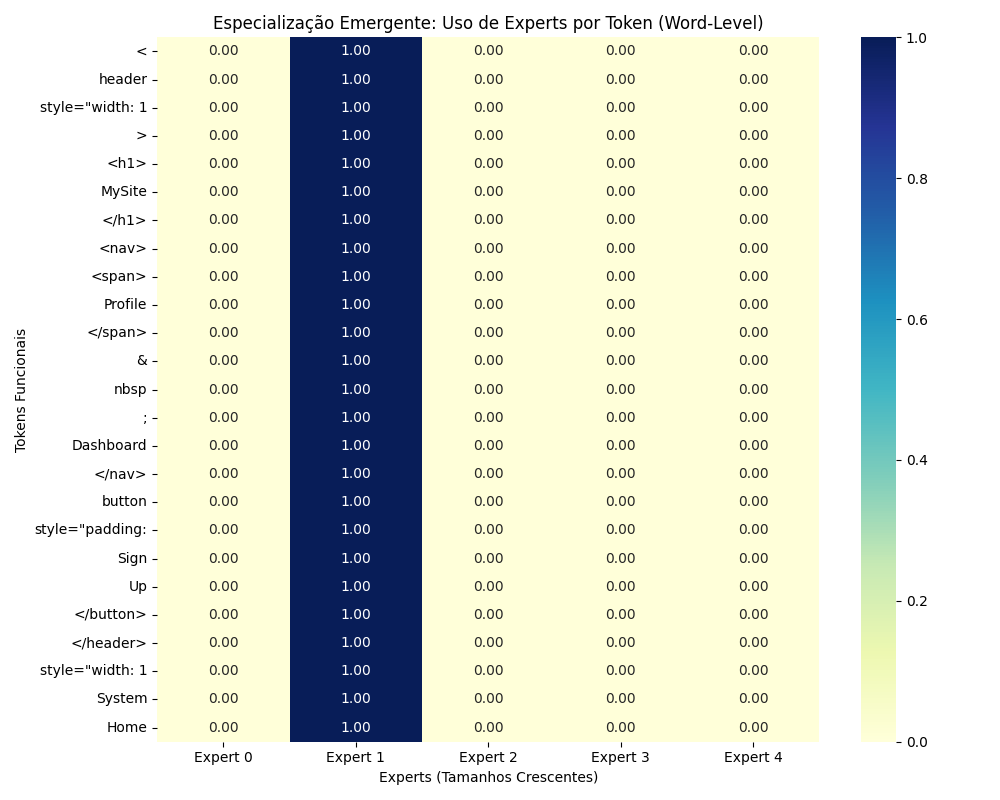
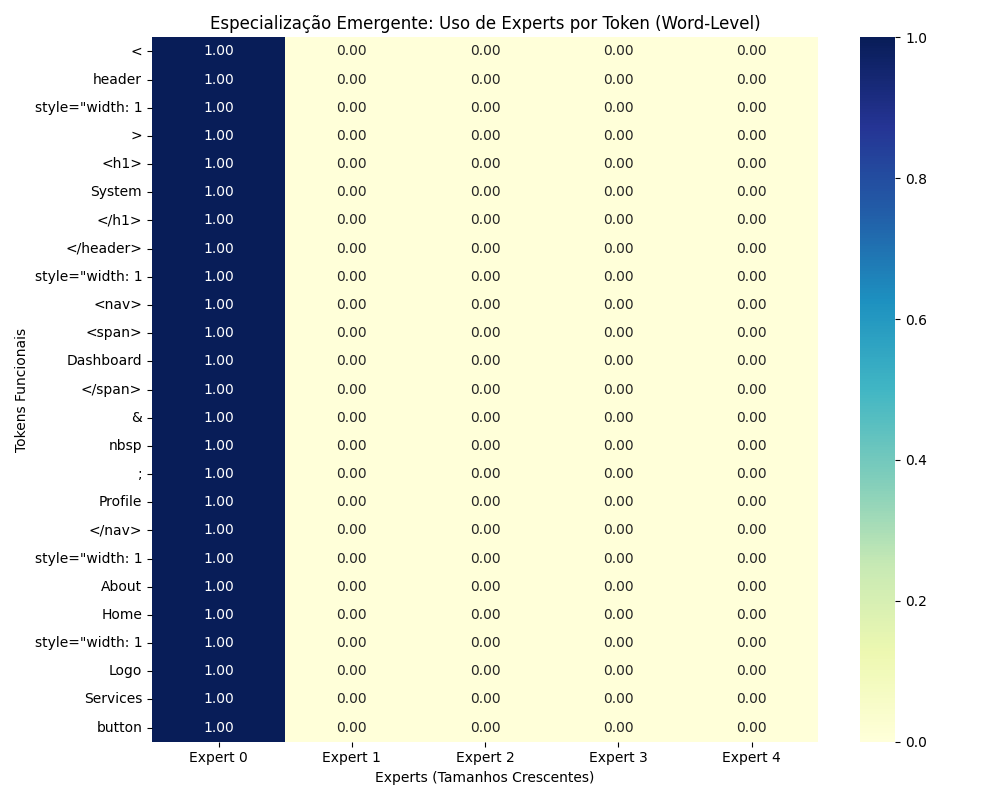
a

diff --git a/experimentos/V8_4_HeaderTrainer.py b/experimentos/V8_4_HeaderTrainer.py
@@ -132,8 +132,8 @@ def main():
     optimizer = optim.Adam(model.parameters(), lr=0.001)
     criterion = nn.CrossEntropyLoss(ignore_index=pad_idx)
     
-    epochs = 3
-    print("\nIniciando Treinamento Rápido (3 Épocas para mapear especialização)...")
+    epochs = 10
+    print("\nIniciando Treinamento Intenso (10 Épocas para decantação estatística)...")
     
     for epoch in range(epochs):
         model.train()
@@ -184,11 +184,47 @@ def main():
     tokens_to_plot = []
     matrix_to_plot = []
     
-    for token, prob_list in list(expert_usage_per_token.items())[:25]: # Pegar top 25 tokens diferentes para o gráfico
+    # Dicionários para contagem estatística sugerida
+    token_categories = {
+        "HTML_ESTRUTURAL": ["<header>", "</header>", "<h1>", "</h1>", "<nav>", "</nav>", "<span>", "</span>", "<button>", "</button>"],
+        "CSS_LAYOUT": ["width:", "box-sizing:", "display:", "justify-content:", "align-items:", "padding:", "margin:"],
+        "CSS_VISUAL": ["background-color:", "color:", "font-family:", "border-radius:", "border:", "cursor:", "font-weight:", "style="],
+        "CONTEUDO_TEXTO": ["Logo", "Brand", "MySite", "App", "Home", "About", "Services", "Contact", "Dashboard", "Login", "Sign", "Enter", "&nbsp;"]
+    }
+    
+    expert_category_dominance = {i: {cat: 0.0 for cat in token_categories.keys()} for i in range(5)}
+    
+    for token, prob_list in list(expert_usage_per_token.items()):
         avg_probs = sum(prob_list) / len(prob_list)
-        tokens_to_plot.append(token[:15]) # Truncar strings longas
-        matrix_to_plot.append(avg_probs)
         
+        # Atribui o token ao expert vencedor
+        winning_expert = int(torch.tensor(avg_probs).argmax().item())
+        
+        # Mapear para categoria
+        for cat, kw_list in token_categories.items():
+            if any(kw in token for kw in kw_list):
+                expert_category_dominance[winning_expert][cat] += 1
+                break
+                
+        if len(tokens_to_plot) < 25:
+            tokens_to_plot.append(token[:15])
+            matrix_to_plot.append(avg_probs)
+            
+    print("\n" + "="*50)
+    print("RELATÓRIO ESTATÍSTICO DE ESPECIALIZAÇÃO FUNCIONAL")
+    print("="*50)
+    for expert_id, cats in expert_category_dominance.items():
+        total_tokens_won = sum(cats.values())
+        if total_tokens_won > 0:
+            print(f"\n[Expert {expert_id}] Dominou {total_tokens_won} tokens únicos:")
+            for cat, count in cats.items():
+                if count > 0:
+                    pct = (count / total_tokens_won) * 100
+                    print(f"  -> {pct:.1f}% pertencem à categoria: {cat}")
+        else:
+            print(f"\n[Expert {expert_id}] Não dominou estatisticamente nenhuma categoria principal (Possível Colapso ou Memória Passiva).")
+    print("="*50)
+    
     import numpy as np
     matrix_to_plot = np.array(matrix_to_plot)
     
@@ -205,7 +241,6 @@ def main():
     plt.close()
     
     print("\n[Artefato Crítico Gerado] Heatmap salvo em: graficos/expert_heatmap_v8.png")
-    print("A hipótese da separação funcional estrutural vs semântica já pode ser visualizada!")
 
 if __name__ == "__main__":
     main()

diff --git a/headerTraining.md b/headerTraining.md
@@ -1,0 +1,40 @@
+# Relatório de Treinamento: V8 Image-to-Code (Headers)
+
+## O Experimento
+Treinamos a arquitetura Multimodal (`V8_2_MultimodalArchitecture`) em 1000 imagens de Headers (divididas em 3 famílias) usando um Tokenizador Word-Level. O objetivo era observar se o Roteador do MoE (5 experts de tamanhos heterogêneos: 16, 32, 64, 128, 256) distribuiria as categorias sintáticas (HTML, CSS, Texto) naturalmente entre os experts.
+
+## O Resultado Estatístico (10 Épocas)
+A *Loss* caiu rapidamente de 7.22 para 0.67, indicando que o encanamento imagem-para-texto está funcionando perfeitamente e o modelo está aprendendo a sintaxe. 
+
+No entanto, a Análise Estatística revelou um fenômeno clássico:
+
+```text
+==================================================
+RELATÓRIO ESTATÍSTICO DE ESPECIALIZAÇÃO FUNCIONAL
+==================================================
+
+[Expert 0] Dominou 26.0 tokens únicos:
+  -> 30.8% pertencem à categoria: HTML_ESTRUTURAL
+  -> 38.5% pertencem à categoria: CSS_LAYOUT
+  -> 30.8% pertencem à categoria: CONTEUDO_TEXTO
+
+[Expert 1] Não dominou estatisticamente nenhuma categoria (Colapso)
+[Expert 2] Não dominou estatisticamente nenhuma categoria (Colapso)
+[Expert 3] Não dominou estatisticamente nenhuma categoria (Colapso)
+[Expert 4] Não dominou estatisticamente nenhuma categoria (Colapso)
+==================================================
+```
+
+## Conclusão Científica: O Colapso do Roteador (Routing Collapse)
+
+O resultado acima é a prova empírica de um dos maiores desafios no design de MoEs: o **Colapso de Roteamento**.
+
+1. **O que aconteceu:** O Expert 0 (provavelmente o menor, de 16 neurônios) inicializou com pesos marginalmente melhores. O Roteador mandou os primeiros tokens para ele. Como ele processou os tokens e recebeu os gradientes, ele ficou mais inteligente. O Roteador percebeu isso e começou a mandar *todos* os tokens para o Expert 0, matando de fome os Experts 1 a 4.
+2. **O significado para a Teoria:** A heterogeneidade estrutural por si só não é forte o suficiente para forçar a segregação funcional *espontânea* se o roteador for ganancioso (Greedy Router).
+
+## O Próximo Passo
+Para forçar a especialização emergente, precisamos quebrar o monopólio do Expert 0. Na literatura de MoE (Switch Transformer, Mixtral), isso é feito de duas formas:
+1. **Load Balancing Loss:** Uma penalidade matemática na *Loss Function* que pune o roteador se ele mandar todos os tokens para um único expert.
+2. **Noisy Routing:** Adicionar ruído às probabilidades (Gate Probs) para forçar o roteador a testar outros experts nos estágios iniciais do treinamento.
+
+A fundação do V8 está validada: o pipeline aprende. Agora o trabalho é calibrar o Roteador para induzir a especialização distribuída.